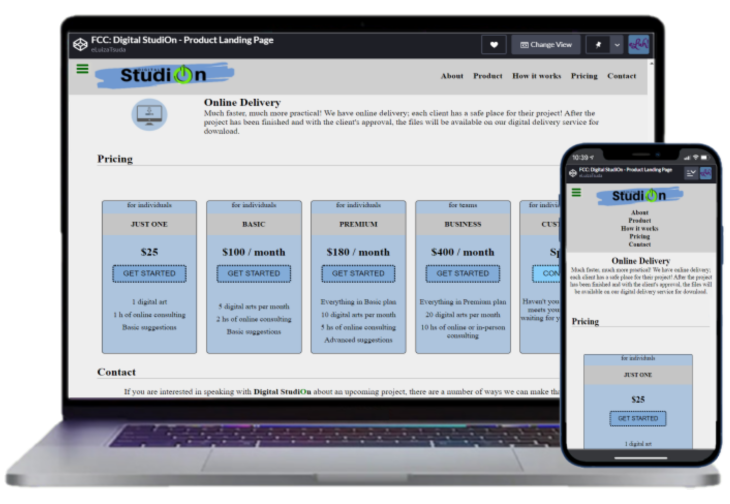
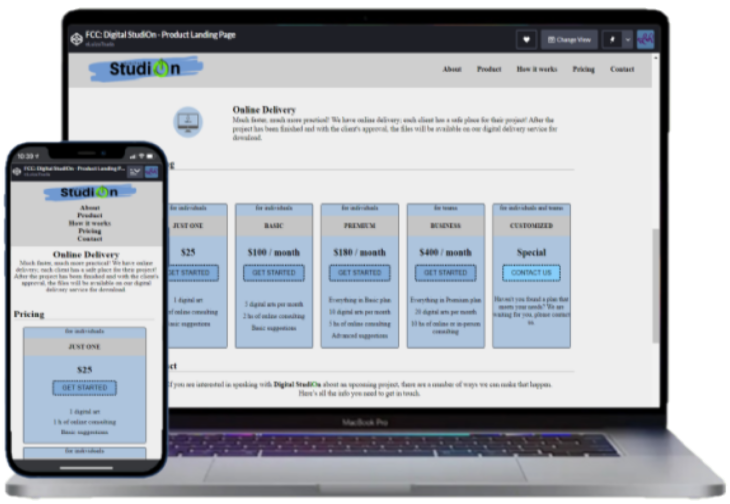
exchange img - product and survey images

diff --git a/index.html b/index.html
@@ -1,20 +1,20 @@
 <!DOCTYPE html>
 <html lang="en">
 <head>
-    <meta charset="UTF-8">
-    <meta http-equiv="X-UA-Compatible" content="IE=edge">
-    <meta name="viewport" content="width=device-width, initial-scale=1.0">
+  <meta charset="UTF-8">
+  <meta http-equiv="X-UA-Compatible" content="IE=edge">
+  <meta name="viewport" content="width=device-width, initial-scale=1.0">
 
-    <link rel="stylesheet" href="https://maxcdn.bootstrapcdn.com/bootstrap/3.4.1/css/bootstrap.min.css">
-    <script src="https://ajax.googleapis.com/ajax/libs/jquery/3.5.1/jquery.min.js"></script>
-    <script src="https://maxcdn.bootstrapcdn.com/bootstrap/3.4.1/js/bootstrap.min.js"></script>
+  <link rel="stylesheet" href="https://maxcdn.bootstrapcdn.com/bootstrap/3.4.1/css/bootstrap.min.css">
+  <script src="https://ajax.googleapis.com/ajax/libs/jquery/3.5.1/jquery.min.js"></script>
+  <script src="https://maxcdn.bootstrapcdn.com/bootstrap/3.4.1/js/bootstrap.min.js"></script>
 
-    <link rel="preconnect" href="https://fonts.gstatic.com">
-    <link rel="stylesheet" type="text/css" href="https://fonts.googleapis.com/css2?family=Livvic" rel="stylesheet">
-    <link rel="stylesheet" type="text/css" href="https://fonts.googleapis.com/css?family=Princess Sofia">
-    <link rel="stylesheet" type="text/css" href="style.css" />
+  <link rel="preconnect" href="https://fonts.gstatic.com">
+  <link rel="stylesheet" type="text/css" href="https://fonts.googleapis.com/css2?family=Livvic" rel="stylesheet">
+  <link rel="stylesheet" type="text/css" href="https://fonts.googleapis.com/css?family=Princess Sofia">
+  <link rel="stylesheet" type="text/css" href="style.css" />
 
-    <title>Personal Portfolio</title>
+  <title>Personal Portfolio</title>
 </head>
 
 <body id="myPage" data-spy="scroll" data-target=".navbar" data-offset="60">
@@ -39,113 +39,118 @@
   </nav>
  
 
-<div class="jumbotron text-center">
-  <h2>Hello, my name is Luiza</h2>
-  <img src="image/Luh_avatar.png" class="img-responsive" style="display:inline" alt="Luh_avatar">
-  <p>I am a web developer in St. John's, Newfoundland - CA</p>
-</div> 
+  <div class="jumbotron text-center">
+    <h2>Hello, my name is Luiza</h2>
+    <img src="image/Luh_avatar.png" class="img-responsive" style="display:inline" alt="Luh_avatar">
+    <p>I am a web developer in St. John's, Newfoundland - CA</p>
+  </div> 
 
-<!-- Container (About Section)-->
-<div id="about" class="container-fluid">
-  <div class="row">
-    <div class="col-sm-8">
-      <h2>About</h2>
-      <h4>
-        You can call me by my nickname, everyone calls me Luh!
-      </h4>
-      <p>
-        I worked as a systems analyst for several years. Now I am on a career transition, and my current goal is to acquire knowledge in web development.
-      </p>
-      <p>
-        I am currently working with the FreeCodeCamp curriculum to help me achieve this.
-      </p>
-      <p>
-        The subsequent sections will show the projects I have completed so far which, will continue to grow and, I hope, improve as I work with the curriculum.
-      </p>
-    </div>
-    <div class="col-sm-4">
-
-      <img class="img-logo" src="image/img-future-transp-200.png" alt="arrow pointing up">
-    </div>
-  </div>
-</div>
-
-<!-- Container (Portfolio Section)-->
-<div id="portfolio" class="container-fluid text-center bg-grey">
-  <h2>Portfolio</h2>
-  <h4>what I have created ...</h4>
-  <div class="row text-center">
-
-    <div class="col-sm-4">
-      <div class="thumbnail">
-        <img src="image/icon-twitter.png" alt="xxxxx" width="400" height="300">
-        <p><strong>Remover depois</strong></p>
-        <p>Yes, I coded that!</p>
+  <!-- Container (About Section)-->
+  <div id="about" class="container-fluid">
+    <div class="row">
+      <div class="col-sm-8">
+        <h2>About</h2>
+        <h4>
+          You can call me by my nickname, everyone calls me Luh!
+        </h4>
+        <p>
+          I worked as a systems analyst for several years. Now I am on a career transition, and my current goal is to acquire knowledge in web development.
+        </p>
+        <p>
+          I am currently working with the FreeCodeCamp curriculum to help me achieve this.
+        </p>
+        <p>
+          The subsequent sections will show the projects I have completed so far which, will continue to grow and, I hope, improve as I work with the curriculum.
+        </p>
       </div>
-    </div>
-    <div class="col-sm-4">
-      <div class="thumbnail">
-        <a href="https://codepen.io/eluizatsuda/full/ZELvbgM" target="_blank">
-          <img src="image/img-simplyme-transp.png" alt="site-responsive - simply me!" width="400" height="300" class="bg-img-simplyme">
-        </a>
-        <div class="bg-img-simplyme">
-          <p><strong>Simply me!</strong></p>
-          <p>Yes, I coded that!</p>
-        </div>
-      </div>
-    </div>
+      <div class="col-sm-4">
 
-    <div class="col-sm-4">
-      <div class="thumbnail">
-        <a href="https://codepen.io/eluizatsuda/full/rNWgdRb" target="_blank">
-          <img  src="image/img-technical-transp.png" alt="site responsive - tecnical Documentation" width="400" height="300"  class="bg-img-tecnical">
-        </a>
-        <div class="bg-img-tecnical">
-          <p><strong>Technical Documentation</strong></p>
-          <p>Yes, I coded that!</p>
-        </div>
+        <img class="img-logo" src="image/img-future-transp-200.png" alt="arrow pointing up">
       </div>
     </div>
   </div>
-</div>
-<div class="row text-center">
-    <div class="col-sm-4">
-      <div class="thumbnail">
-        <a href="https://codepen.io/eluizatsuda/full/qBaJorN" target="_blank"><img src="image/img-product-transp.png" alt="site responsive - product landing" width="400" height="300" class="bg-img-product"></a>
-        <div class="bg-img-product">
-          <p><strong>Product Landing Page</strong></p>
+
+  <!-- Container (Portfolio Section)-->
+  <div id="portfolio" class="container-fluid text-center bg-grey">
+    <h2>Portfolio</h2>
+    <h4>what I have created ...</h4>
+    <div class="row text-center">
+
+      <div class="col-sm-4">
+        <div class="thumbnail">
+          <img src="image/icon-twitter.png" alt="xxxxx" width="400" height="300">
+          <p><strong>Remover depois</strong></p>
           <p>Yes, I coded that!</p>
         </div>
       </div>
-    </div>
+      <div class="col-sm-4">
+        <div class="thumbnail">
+          <a href="https://codepen.io/eluizatsuda/full/ZELvbgM" target="_blank">
+            <img src="image/img-simplyme-transp.png" alt="site-responsive - simply me!" width="400" height="300" class="bg-img-simplyme">
+          </a>
+          <div class="bg-img-simplyme">
+            <p><strong>Simply me!</strong></p>
+            <p>Yes, I coded that!</p>
+          </div>
+        </div>
+      </div>
 
-    <div class="col-sm-4">
-      <div class="thumbnail">
-        <a href="https://codepen.io/eluizatsuda/full/XWKZRjv" target="_blank"><img src="image/img-survey-transp.png" alt="site responsive - survey" width="400" height="300"  class="bg-img-survey"></a>
-        <div class="bg-img-survey">
-          <p><strong>Survey Page</strong></p>
-          <p>Yes, I coded that!</p>
+      <div class="col-sm-4">
+        <div class="thumbnail">
+          <a href="https://codepen.io/eluizatsuda/full/rNWgdRb" target="_blank">
+            <img  src="image/img-technical-transp.png" alt="site responsive - tecnical Documentation" width="400" height="300"  class="bg-img-tecnical">
+          </a>
+          <div class="bg-img-tecnical">
+            <p><strong>Technical Documentation</strong></p>
+            <p>Yes, I coded that!</p>
+          </div>
         </div>
       </div>
     </div>
+  
+    <div class="row text-center">
+      <div class="col-sm-4">
+        <div class="thumbnail">
+          <a href="https://codepen.io/eluizatsuda/full/qBaJorN" target="_blank"><img src="image/img-product-transp.png" alt="site responsive - product landing" width="400" height="300" class="bg-img-product"></a>
+          <div class="bg-img-product">
+            <p><strong>Product Landing Page</strong></p>
+            <p>Yes, I coded that!</p>
+          </div>
+        </div>
+      </div>
 
-    <div class="col-sm-4">
-      <div class="thumbnail">
-        <a href="https://codepen.io/eluizatsuda/full/NWNVqwP" target="_blank"><img src="image/img-tribute-transp.png" alt="site-responsive - tribute" width="400" height="300"  class="bg-img-tribute"></a>
-        <div class="bg-img-tribute"> 
-          <p><strong>Tribute Page</strong></p>
-          <p>Yes, I coded that!</p>
+      <div class="col-sm-4">
+        <div class="thumbnail">
+          <a href="https://codepen.io/eluizatsuda/full/XWKZRjv" target="_blank">
+            <img src="image/img-survey-transp.png" alt="site responsive - survey" width="400" height="300"  class="bg-img-survey">
+          </a>
+          <div class="bg-img-survey">
+            <p><strong>Survey Page</strong></p>
+            <p>Yes, I coded that!</p>
+          </div>
+        </div>
+      </div>
+
+      <div class="col-sm-4">
+        <div class="thumbnail">
+          <a href="https://codepen.io/eluizatsuda/full/NWNVqwP" target="_blank">
+            <img src="image/img-tribute-transp.png" alt="site-responsive - tribute" width="400" height="300"  class="bg-img-tribute">
+          </a>
+          <div class="bg-img-tribute"> 
+            <p><strong>Tribute Page</strong></p>
+            <p>Yes, I coded that!</p>
+          </div>
         </div>
       </div>
     </div>
-</div>
-
-<!-- Container (Contact Section)-->
-<div id="contact" class="container-fluid">
-  <div class="row">
-    
   </div>
-</div>
+
+  <!-- Container (Contact Section)-->
+  <div id="contact" class="container-fluid">
+    <div class="row">
+      
+    </div>
+  </div>
 
 
 
@@ -155,8 +160,7 @@
     <a href="#myPage" title="To Top">
       <span class="glyphicon glyphicon-chevron-up"></span>
     </a><br>
-    <span class="codedby">Coded by </span><span class="brandname"> eLuh!</span>
- glyphicon glyphicon-chevron-up </footer>
+    <span class="codedby">Coded by </span><span class="brandname"> eLuh!</span>glyphicon glyphicon-chevron-up </footer>
 </body>
 </html>
  
